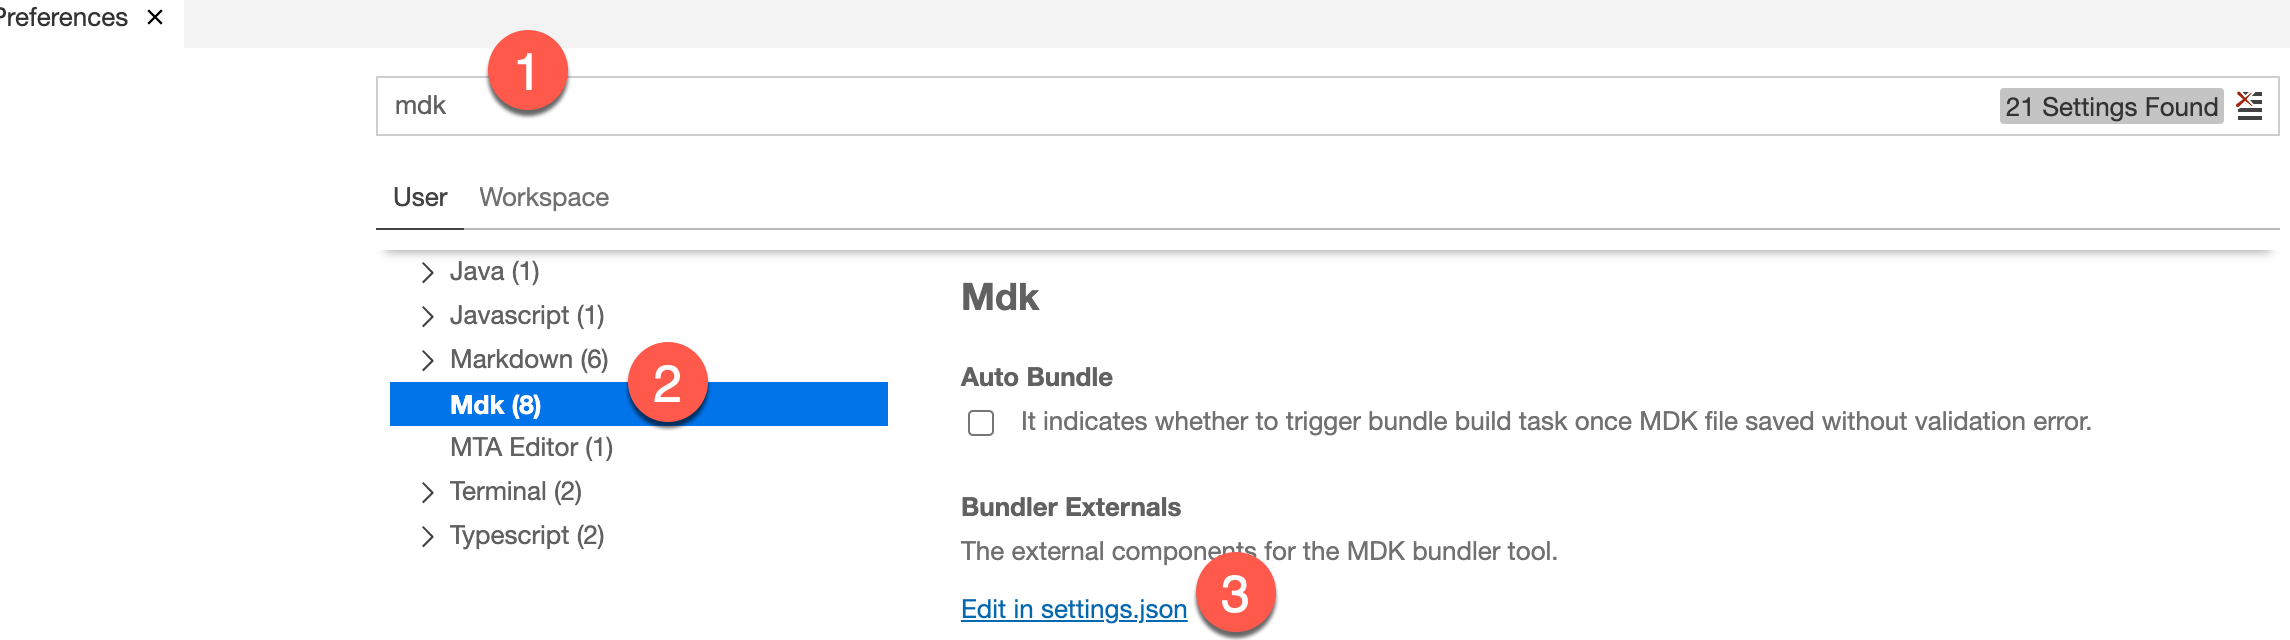
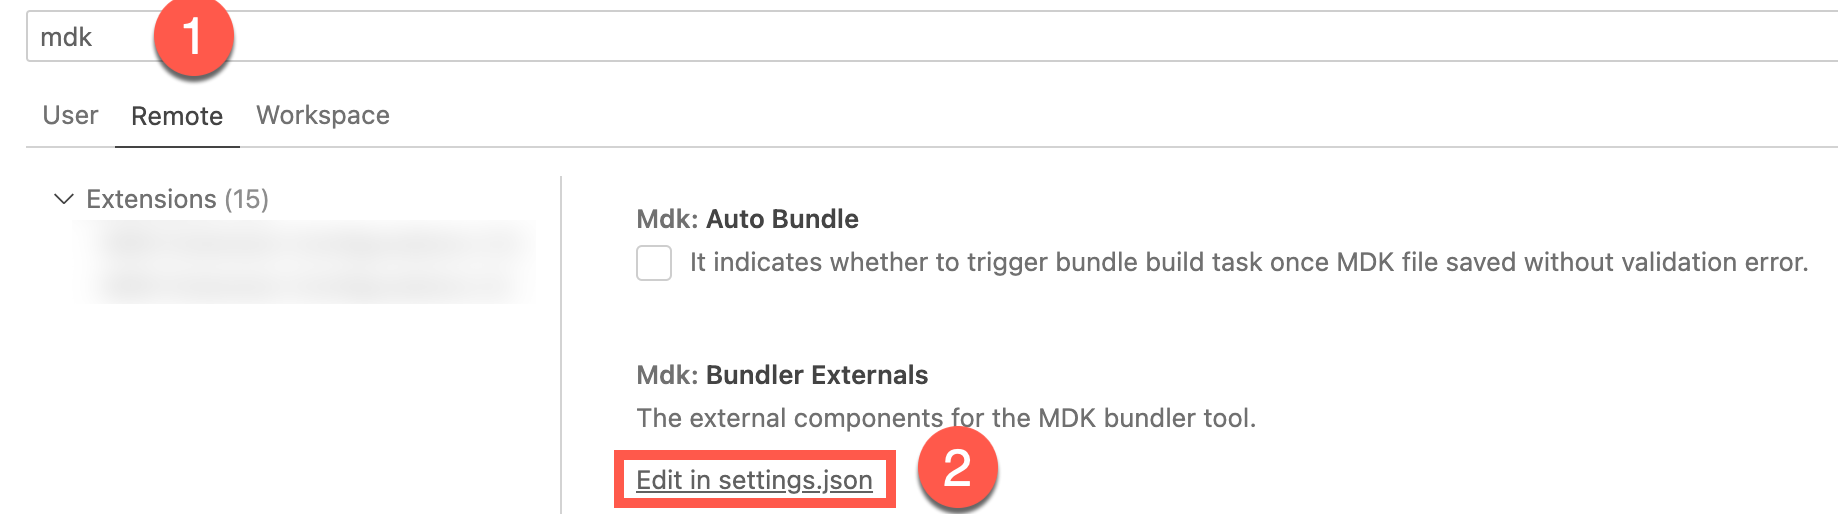
Updated

diff --git a/tutorials/cp-mobile-dev-kit-nativescript-geolocation/cp-mobile-dev-kit-nativescript-geolocation.md b/tutorials/cp-mobile-dev-kit-nativescript-geolocation/cp-mobile-dev-kit-nativescript-geolocation.md
@@ -159,11 +159,15 @@ Enable the loading indicator at the Sectioned Table level by providing the follo
 
 In `GetCoordinates.js` file, you referred `@nativescript/geolocation` plugin. You now need to list this module as external references in BAS configuration so when bundling, MDK editor knows not to worry about these references.
 
-1. Navigate **File** menu | **Settings** | **Open Preferences**.
+1. Click on the gear icon on the bottom left of the BAS window and select  **Settings**.
 
     <!-- border -->![MDK](img-4.1.png)
 
-2. Search with `mdk`, click **Edit in settings.json**.
+2. Switch to the *Remote* tab.
+
+    <!-- border -->![MDK](img-4.1.2.png)
+
+Search with `mdk`, click **Edit in settings.json**.
 
     <!-- border -->![MDK](img-4.2.png)
 

diff --git a/tutorials/cp-mobile-dev-kit-detail-page/cp-mobile-dev-kit-detail-page.md b/tutorials/cp-mobile-dev-kit-detail-page/cp-mobile-dev-kit-detail-page.md
@@ -78,10 +78,6 @@ This page will show related details for a customer. In this page, you will add a
 
     ><!-- border -->![MDK](img-1.6.png)
 
-7. As enough fields have been selected to be displayed on the detail page, `Substatus` and `Tags` are not required for this tutorial. In a real use case, you may need these properties. Remove the default value for `Substatus` properties and also, delete items under `Tags`.
-   
-    ><!-- border -->![MDK](img-1.7.gif)
-
     Page should look like below.
 
     <!-- border -->![MDK](img-1.8.png)
